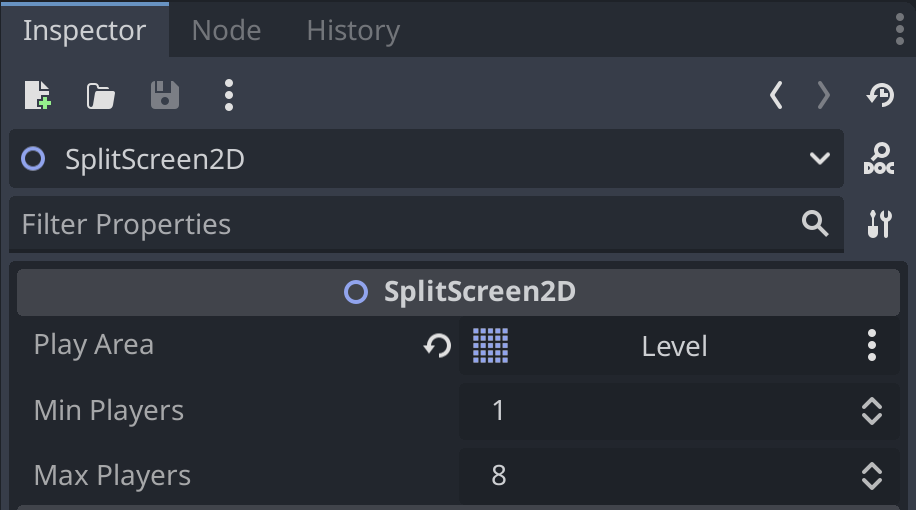
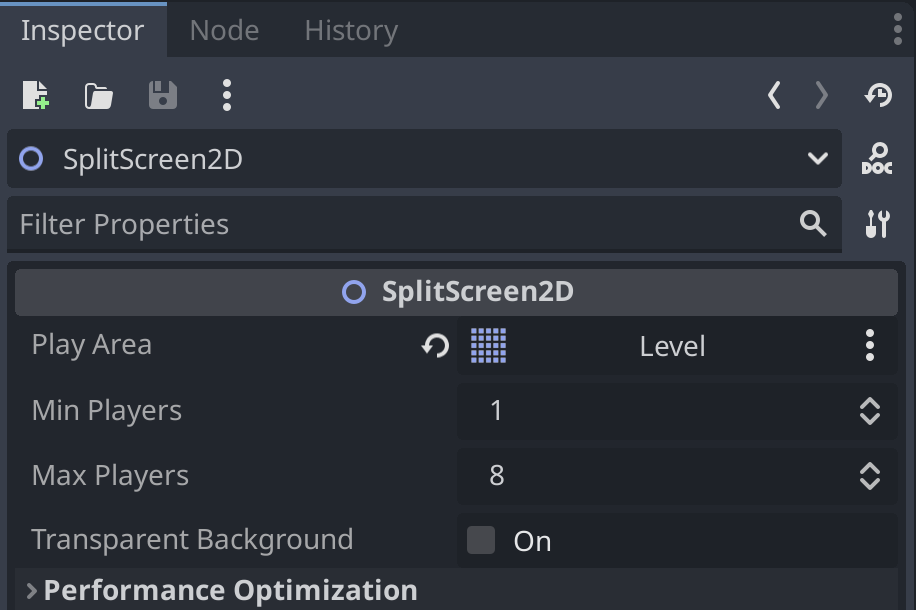
add transparent_background setting & from_config method

diff --git a/README.md b/README.md
@@ -62,8 +62,8 @@ Finally, you'll need to configure the `SplitScreen2D` by assigning it a `Play Ar
 
 ## Configuration
 
-Configure the `SplitScreen2D` node by selecting it in the scene tree and assigning the `Play Area`, `Min Players`, and
-`Max Players` properties in the inspector. 
+Configure the `SplitScreen2D` node by selecting it in the scene tree and assigning the `Play Area`, `Min Players`,
+`Max Players`, and `Transparent Background` properties in the inspector. 
 
 ![Example Configuration](https://raw.githubusercontent.com/sscovil/godot-split-screen-2d-addon/main/screenshots/screenshot_05.png)
 
@@ -82,6 +82,8 @@ func _ready():
 	# Set the minimum and maximum number of players (default is 1 to 8).
 	split_screen_2d.min_players = 2
 	split_screen_2d.max_players = 4
+	# Give the viewports transparent backgrounds (default is `false`).
+	split_screen_2d.transparent_background = true
 ```
 
 Likewise, you can add player nodes in code:
@@ -96,11 +98,48 @@ func _input():
 	if Input.is_action_just_pressed("ui_accept"):
 		# Assuming `Player` is a class you created for your players.
 		var player = Player.new()
-		# Code to configure player goes here.
-		
 		# Add the player to the split screen.
 		split_screen_2d.add_player(player)
 ```
+
+You can also programatically add a `SplitScreen2D` node to your scene tree, using the static `from_config()` method:
+
+```gdscript
+class_name Example
+extends Node2D
+
+## This will be added to the scene tree when we call `initialize_split_screen()`.
+var split_screen_2d: SplitScreen2D
+
+func _ready():
+	var config := SplitScreen2DConfig.new()
+	config.play_area = load_level(1)
+	config.max_players = 2
+	
+	var split_screen = SplitScreen2D.from_config(config)
+	var players = [
+		load_player("Player 1"),
+		load_player("Player 2"),
+	]
+	
+	for player in players:
+		split_screen.add_player(player)
+	
+	add_child(split_screen)
+
+func load_level(level_number: int) -> Level:
+	# Replace this example code with the code you use to load your game levels.
+	var level = load("res://path/to/level_%d.tscn" % level_number).instantiate()
+	return level
+
+func load_player(player_name: String) -> Player:
+	# Replace this example code with the code you use to instantiate your players.
+	var player = load("res://path/to/player.tscn").instantiate()
+	player.set_player_name(player_name)
+	return player
+```
+
+The `SplitScreen2DConfig` class has all the same exported properties and default values as `SplitScreen2D`.
 
 ### Performance Optimization
 
